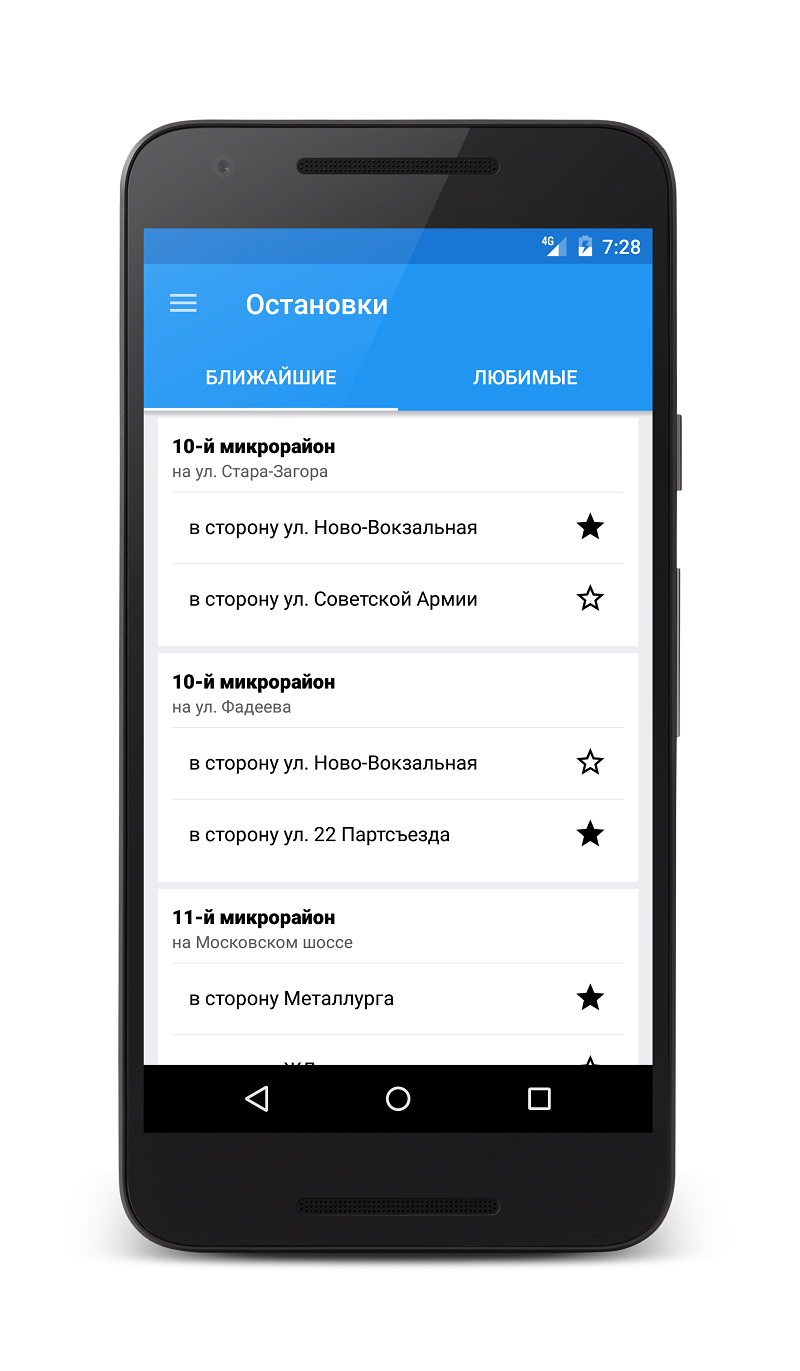
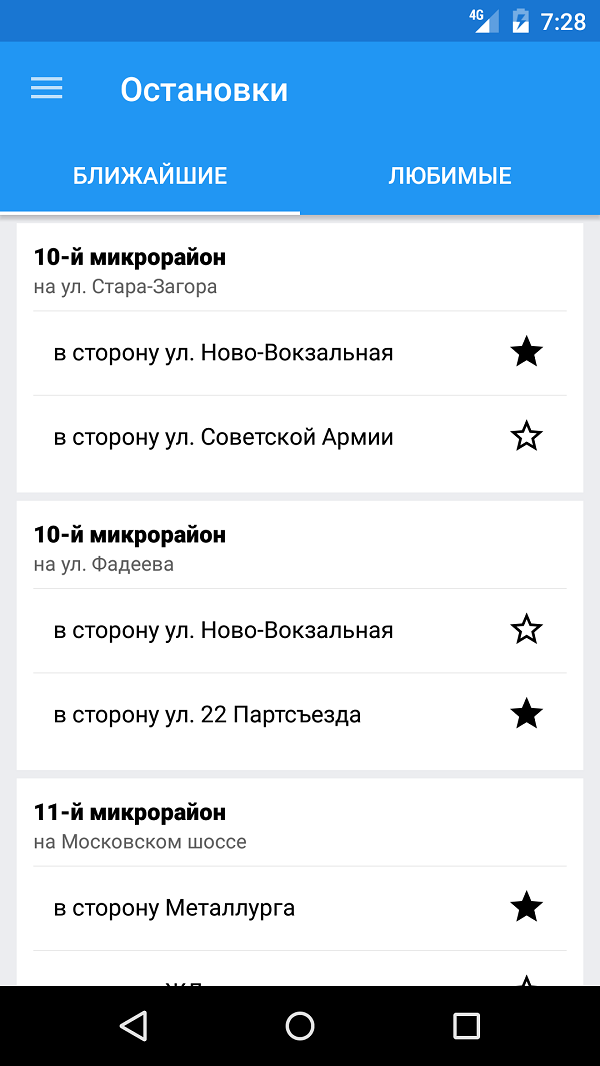
img

diff --git a/README.md b/README.md
@@ -38,4 +38,11 @@
 * `com.transportsmr.app.fragments.ArrivalsFragment` Для просмотра прибытия транспорта для конкретной остановки. Для загрузки информации используется AsyncTask.
 
 
+Скриншоты:
+<img src="https://github.com/AltarixExercises2016/Shashov.Kirill/blob/master/img/1.png" width="250">
+<img src="https://github.com/AltarixExercises2016/Shashov.Kirill/blob/master/img/2.png" width="250">
+<img src="https://github.com/AltarixExercises2016/Shashov.Kirill/blob/master/img/3.png" width="250">
+<img src="https://github.com/AltarixExercises2016/Shashov.Kirill/blob/master/img/4.png" width="250">
+<img src="https://github.com/AltarixExercises2016/Shashov.Kirill/blob/master/img/5.png" width="250">
+
 
